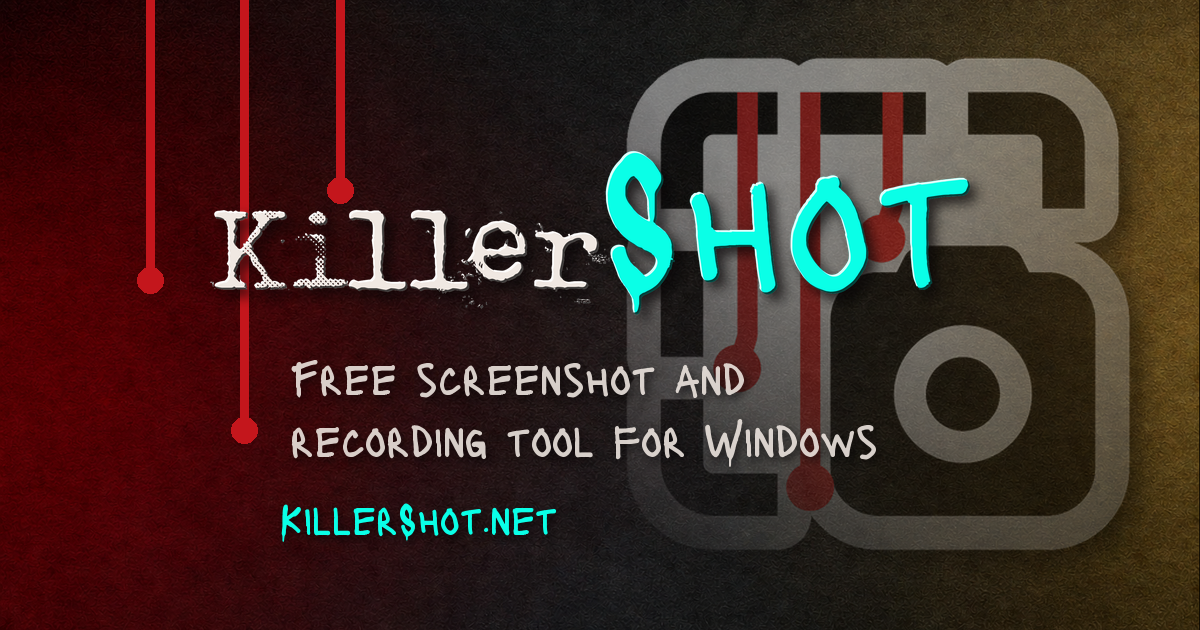
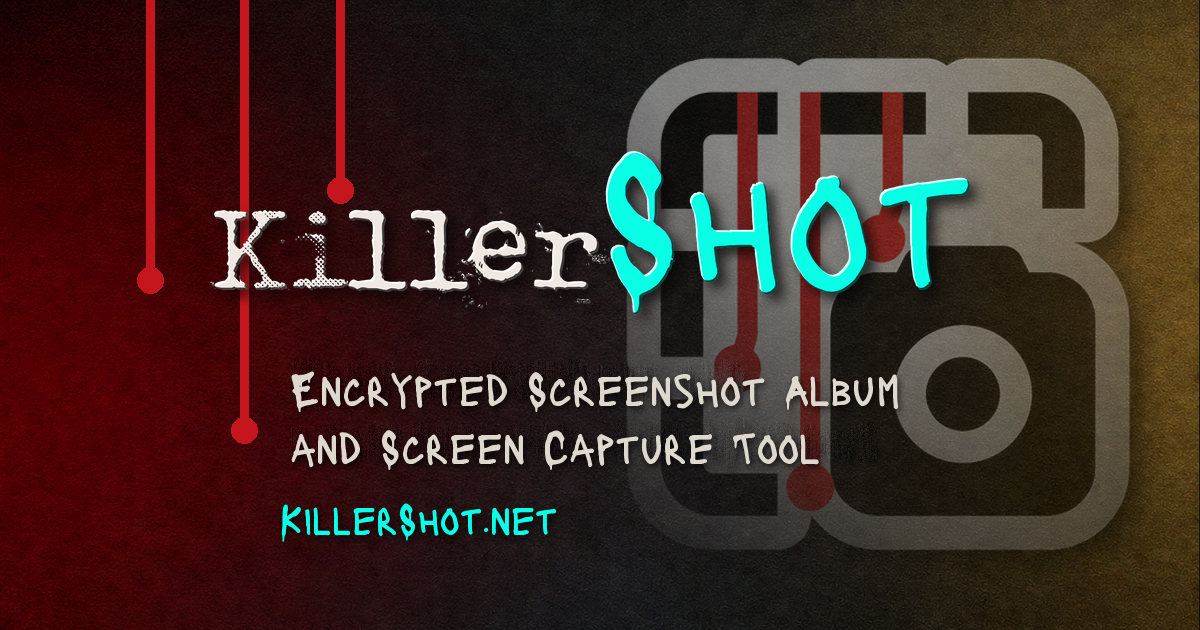
Landing: 'Encrypted Screenshot Album and Screen Capture Tool' on the social image, title and tagline; Black grain matches the app's 0.18

Changed region(s): [[0.2467, 0.573, 0.7708, 0.754]]

diff --git a/shot-landing/mcp.html b/shot-landing/mcp.html
@@ -8,7 +8,7 @@
 <title>KillerShot MCP: screenshots and recordings for your agent</title><link rel="canonical" href="https://killershot.net/mcp">
 <meta name="description" content="Let AI agents take screenshots and screen recordings with KillerShot through KillerMCP, on your own computer.">
 <link rel="icon" type="image/x-icon" href="brand/kst-icon.ico">
-<link rel="stylesheet" href="kst.css?v=2">
+<link rel="stylesheet" href="kst.css?v=3">
 <style>.page-hero{text-align:center;padding:38px 16px 22px}.mcp-brand{display:flex;align-items:center;justify-content:center;gap:14px}.mcp-icon-pair{position:relative;flex:0 0 206px;width:206px;height:183px}.mcp-family-icon{position:absolute;left:0;top:0;width:170px;height:170px;object-fit:contain;filter:drop-shadow(0 4px 7px rgba(0,0,0,.5))}.mcp-app-icon{position:absolute;right:31px;bottom:29px;width:90px;height:90px;object-fit:contain;filter:drop-shadow(0 3px 5px rgba(0,0,0,.45))}.mcp-brand-wordmark{width:min(360px,66vw);height:auto}.mcp-suffix{font-family:var(--kt-font-card-title);font-size:clamp(27px,4vw,40px);color:var(--text)}.page-hero p{color:var(--muted);font-size:15px;margin-top:8px}.content-inner{max-width:880px;margin:0 auto;padding:0 28px 56px}.mcp-example{display:block;overflow-wrap:anywhere;margin:12px 0;padding:12px 16px;border:1px solid var(--pane-border);border-radius:6px;background:var(--panel);color:var(--text);font-family:Consolas,monospace}@media(max-width:600px){.content-inner{padding:0 16px 36px}.mcp-brand{gap:8px}.mcp-icon-pair{flex-basis:132px;width:132px;height:120px}.mcp-family-icon{width:112px;height:112px}.mcp-app-icon{right:8px;bottom:8px;width:56px;height:56px}}</style>
 <style>.connection-actions{display:grid;gap:10px;margin:14px 0}.connection-action,.connection-actions code{display:block;overflow-wrap:anywhere;padding:11px 14px;border:1px solid var(--pane-border);border-radius:6px;background:var(--panel);color:var(--text);font-family:Consolas,monospace}.connection-action{width:max-content;border-color:var(--accent);color:var(--accent);font-weight:700}.example-grid,.mcp-facts{display:grid;grid-template-columns:repeat(2,minmax(0,1fr));gap:12px;margin-top:14px}.example-grid .mcp-example{margin:0}.mcp-fact{padding:14px 16px;border:1px solid var(--pane-border);border-radius:6px;background:var(--panel)}.mcp-fact strong{display:block;margin-bottom:5px;color:var(--text)}.mcp-fact span{color:var(--muted);line-height:1.55}.mcp-download{display:flex;align-items:center;justify-content:center;gap:10px;width:100%;margin-top:2px;padding:12px 18px;border-radius:6px;background:var(--btn);color:var(--btn-text)!important;font-size:15px;font-weight:700;box-shadow:0 8px 20px rgba(0,0,0,.35);transition:filter .15s,transform .1s,box-shadow .15s}.mcp-download:hover,.mcp-download:focus-visible{filter:brightness(1.4);transform:translateY(-1px);box-shadow:0 12px 28px rgba(0,0,0,.5);color:var(--btn-text)!important}.mcp-download:active{transform:translateY(1px)}.mcp-store{display:flex;align-items:center;justify-content:center;gap:10px;width:100%;margin-top:8px;border:1px solid var(--accent);background:transparent;color:var(--text)!important;font-size:15px;font-weight:700;padding:11px 18px;border-radius:6px;box-shadow:0 3px 8px rgba(0,0,0,.25);transition:transform .12s,box-shadow .15s,border-color .12s}.mcp-store:hover{color:var(--text)!important;border-color:color-mix(in srgb,var(--accent) 72%,var(--text));transform:translateY(-1px);box-shadow:0 7px 14px rgba(0,0,0,.4);filter:none}.mcp-store svg{width:20px;height:20px;fill:currentColor;flex:0 0 auto}.mcp-download:focus-visible{outline:2px solid var(--accent);outline-offset:3px}.mcp-download svg{width:18px;height:18px;fill:currentColor}.installer-meta{display:flex;flex-wrap:wrap;gap:4px 12px;margin:8px 0 14px;color:var(--muted);font:11.5px/1.45 Consolas,monospace}.installer-meta a{font-weight:400}.install-steps{margin:0;padding-left:24px;display:grid;gap:10px}.client-links{display:flex;flex-wrap:wrap;gap:7px;margin-top:9px}.client-link{display:inline-flex;align-items:center;gap:7px;padding:6px 9px;border:1px solid var(--pane-border);border-radius:6px;background:var(--panel);color:var(--muted);font-size:12px;font-weight:700;line-height:1.2;transition:color .15s,border-color .15s,background-color .15s,transform .12s,box-shadow .15s}.client-link:hover,.client-link:focus-visible{color:var(--accent);border-color:var(--accent);background:color-mix(in srgb,var(--accent) 10%,var(--panel));transform:translateY(-2px);box-shadow:0 7px 14px rgba(0,0,0,.35);filter:none}.client-link:focus-visible{outline:2px solid var(--accent);outline-offset:2px}.client-mark{display:grid;place-items:center;flex:0 0 22px;width:22px;height:22px;color:var(--accent)}.client-mark svg{width:19px;height:19px;fill:none;stroke:currentColor;stroke-width:1.8;stroke-linecap:round;stroke-linejoin:round}@media(max-width:600px){.example-grid,.mcp-facts{grid-template-columns:1fr}.client-link{flex:1 1 125px}}</style>
 <style>

diff --git a/shot-landing/index.html b/shot-landing/index.html
@@ -6,23 +6,23 @@
 <link rel="preload" href="brand/KillerSans-Regular.ttf" as="font" type="font/ttf" crossorigin><link rel="preload" href="brand/Punktype.ttf" as="font" type="font/ttf" crossorigin><link rel="preload" href="brand/Lacquer-Regular.ttf" as="font" type="font/ttf" crossorigin>
 <meta name="viewport" content="width=device-width, initial-scale=1">
 <meta name="darkreader-lock">
-<title data-i18n="page_index_title">KillerShot: Encrypted Screenshot Album for Windows</title>
+<title data-i18n="page_index_title">KillerShot: Encrypted Screenshot Album and Screen Capture Tool</title>
 <link rel="canonical" href="https://killershot.net/">
 <meta name="description" data-i18n-content="page_index_description" content="Keep every screenshot in an encrypted, searchable album on your own PC. KillerShot for Windows captures with Print Screen, marks up and redacts, and records MP4 or GIF.">
 <link rel="icon" type="image/x-icon" href="brand/kst-icon.ico">
 <meta property="og:type" content="website">
 <meta property="og:url" content="https://killershot.net/">
-<meta property="og:title" data-i18n-content="page_index_title" content="KillerShot: Encrypted Screenshot Album for Windows">
+<meta property="og:title" data-i18n-content="page_index_title" content="KillerShot: Encrypted Screenshot Album and Screen Capture Tool">
 <meta property="og:description" data-i18n-content="page_index_description" content="Keep every screenshot in an encrypted, searchable album on your own PC. KillerShot for Windows captures with Print Screen, marks up and redacts, and records MP4 or GIF.">
 <meta property="og:image" content="https://killershot.net/og-image.png">
 <meta property="og:image:width" content="1200">
 <meta property="og:image:height" content="630">
 <meta property="og:image:type" content="image/png">
 <meta name="twitter:card" content="summary_large_image">
-<meta name="twitter:title" data-i18n-content="page_index_title" content="KillerShot: Encrypted Screenshot Album for Windows">
+<meta name="twitter:title" data-i18n-content="page_index_title" content="KillerShot: Encrypted Screenshot Album and Screen Capture Tool">
 <meta name="twitter:description" data-i18n-content="page_index_description" content="Keep every screenshot in an encrypted, searchable album on your own PC. KillerShot for Windows captures with Print Screen, marks up and redacts, and records MP4 or GIF.">
 <meta name="twitter:image" content="https://killershot.net/og-image.png">
-<link rel="stylesheet" href="kst.css?v=2">
+<link rel="stylesheet" href="kst.css?v=3">
 <link rel="stylesheet" href="feature-carousel.css?v=2">
 <style>
 /* ---- Page-specific (landing) ---- */
@@ -162,7 +162,7 @@ html[data-theme="light"] .blurb h3, html[data-theme="light"] .feature-card h3 { 
 <span class="hero-icon-frame"><img class="hero-icon" src="kst-icon.png" alt="" aria-hidden="true" width="230" height="230"></span>
 <span class="hero-wordmark-frame"><img class="wm-logo" src="brand/killershot-logo-black-teal.svg" alt="KillerShot"></span>
 </div>
-<p class="tagline" data-i18n="tagline"><b>Your screenshots, in an encrypted album.</b> Capture a region, a window or every monitor with Print Screen, mark it up and redact it, and find it again by the text inside the picture. When a picture is not enough, record the screen to MP4 or GIF.</p>
+<p class="tagline" data-i18n="tagline"><b>Encrypted screenshot album and screen capture tool.</b> Capture a region, a window or every monitor with Print Screen, mark it up and redact it, and find it again by the text inside the picture. When a picture is not enough, record the screen to MP4 or GIF.</p>
 <div class="hero-grid">
 <div class="hero-cta">
 <div class="cta-row">

diff --git a/shot-landing/kst.css b/shot-landing/kst.css
@@ -811,7 +811,8 @@ html[data-yellow-outline] .tb-more-menu > a { text-shadow: none !important; }
 /* Relative, not root paths: the tiles sit beside this file, so they load from disk as well as the site. */
 :root { --grain-img:url('grain-a17.png'); }
 html[data-theme="light"] { --grain-img:url('grain-a28.png'); }
-html[data-theme="hc"] { --grain-img:url('grain-a17-highlights.png'); }
+/* Black: the app's own highlights-only grain at its 0.18 layer opacity (GrainTexture.cs, seed 1337). */
+html[data-theme="hc"] { --grain-img:url('grain-a13-highlights.png'); }
 html[data-grain="off"] { --grain-img:none; }
 .tgrp-sep { flex-basis: 100%; height: 1px; margin: 2px 0; background: linear-gradient(90deg, transparent, var(--border), transparent); }
 .tgrp-grain { flex-basis: 100%; display: inline-flex; align-items: center; justify-content: center; gap: 7px; font-family: var(--kt-font-ui); font-size: 14px; color: var(--text); cursor: pointer; user-select: none; }

diff --git a/shot-landing/technical.html b/shot-landing/technical.html
@@ -10,7 +10,7 @@
 <link rel="canonical" href="https://killershot.net/technical.html">
 <meta name="description" data-i18n-content="page_tech_description" content="How KillerShot works: the encrypted screenshot album, the frozen desktop, Windows Graphics Capture, DPI handling, clipboard formats and the MP4 and GIF recording pipelines.">
 <link rel="icon" type="image/x-icon" href="brand/kst-icon.ico">
-<link rel="stylesheet" href="kst.css?v=2">
+<link rel="stylesheet" href="kst.css?v=3">
 <style>
 .page-hero { text-align: center; padding: 44px 16px 8px; }
 .page-hero .wm-logo { height: clamp(55px, 9.5vw, 91px); width: auto; margin: 0 auto 8px; display: block; filter: drop-shadow(0 4px 8px rgba(0,0,0,0.55)); }

diff --git a/shot-landing/about.html b/shot-landing/about.html
@@ -10,7 +10,7 @@
 <link rel="canonical" href="https://killershot.net/about.html">
 <meta name="description" data-i18n-content="page_about_description" content="About KillerShot and its maker, Steve the Killer, a field tech who built the screenshot tool he wanted.">
 <link rel="icon" type="image/x-icon" href="brand/kst-icon.ico">
-<link rel="stylesheet" href="kst.css?v=2">
+<link rel="stylesheet" href="kst.css?v=3">
 <style>
 .page-hero { text-align: center; padding: 44px 16px 8px; }
 .page-hero .wm-logo { height: clamp(55px, 9.5vw, 91px); width: auto; margin: 0 auto 8px; display: block; filter: drop-shadow(0 4px 8px rgba(0,0,0,0.55)); }

diff --git a/shot-landing/help.html b/shot-landing/help.html
@@ -10,7 +10,7 @@
 <link rel="canonical" href="https://killershot.net/help.html">
 <meta name="description" data-i18n-content="page_help_description" content="How to use KillerShot: every capture mode, the editor, screen recording, the command line and every keyboard shortcut.">
 <link rel="icon" type="image/x-icon" href="brand/kst-icon.ico">
-<link rel="stylesheet" href="kst.css?v=2">
+<link rel="stylesheet" href="kst.css?v=3">
 <style>
 .content-inner { max-width: 880px; margin: 0 auto; padding: 0 28px 56px; }
 .help-hero { text-align: center; padding: 44px 16px 6px; }
